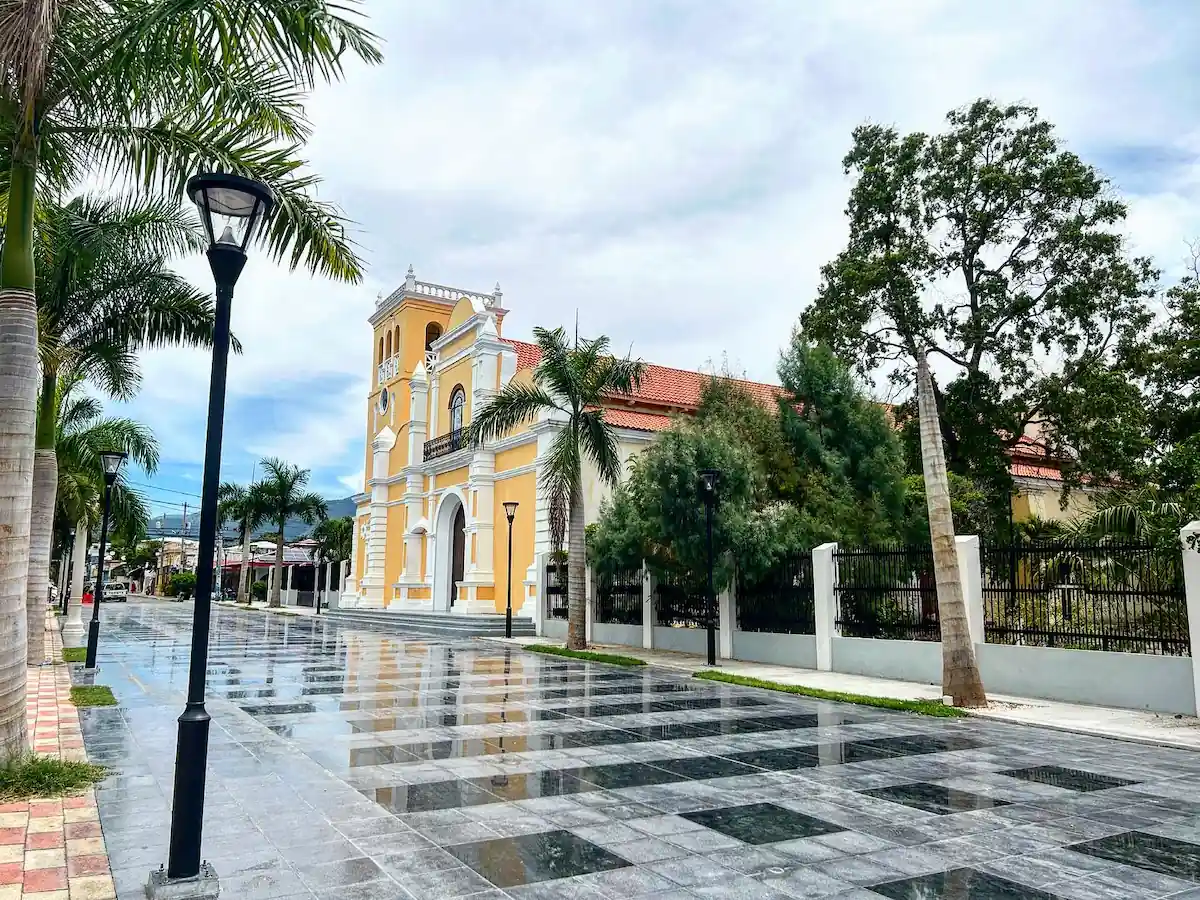
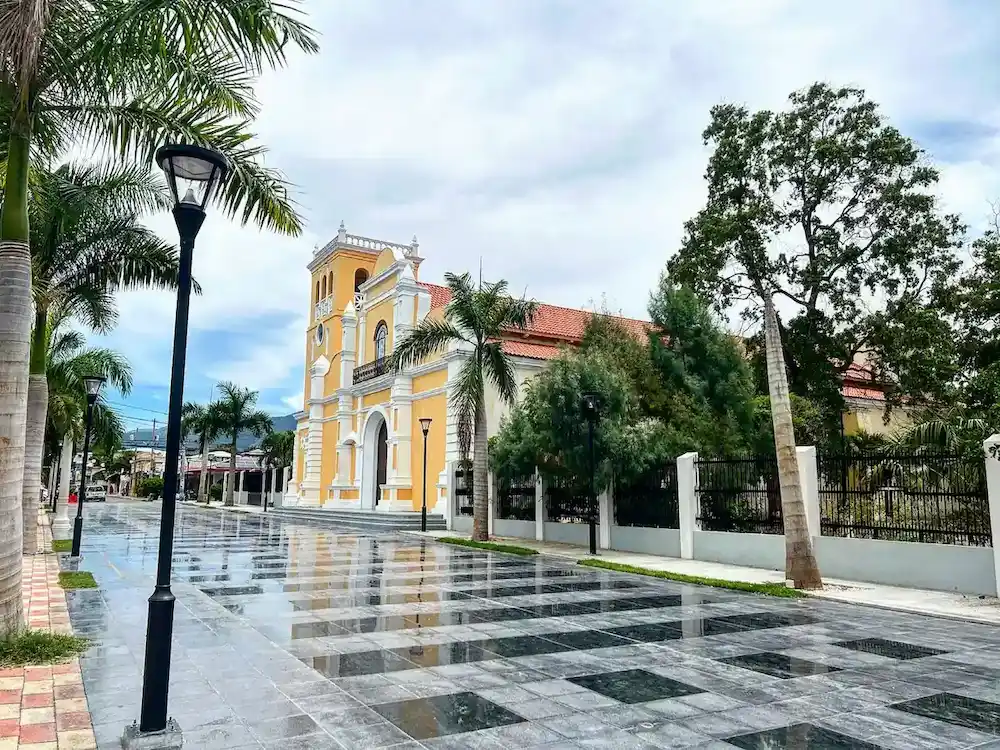
submision week3

diff --git a/chamber/index.html b/chamber/index.html
@@ -82,7 +82,7 @@
             <section id="weatherSection">
                 <div>
                 <h2 class="home-h2"> Current Weather</h2> 
-                <img class="weather-icon" src="" alt="">
+                <img class="weather-icon" src="https://openweathermap.org/img/wn/01d.png" alt="weather information">
                 <p id="description">The current temperature in Azua de Compostela, Dominican republic is <span
                         id="current-temp"></span></p>
                 <figure>
